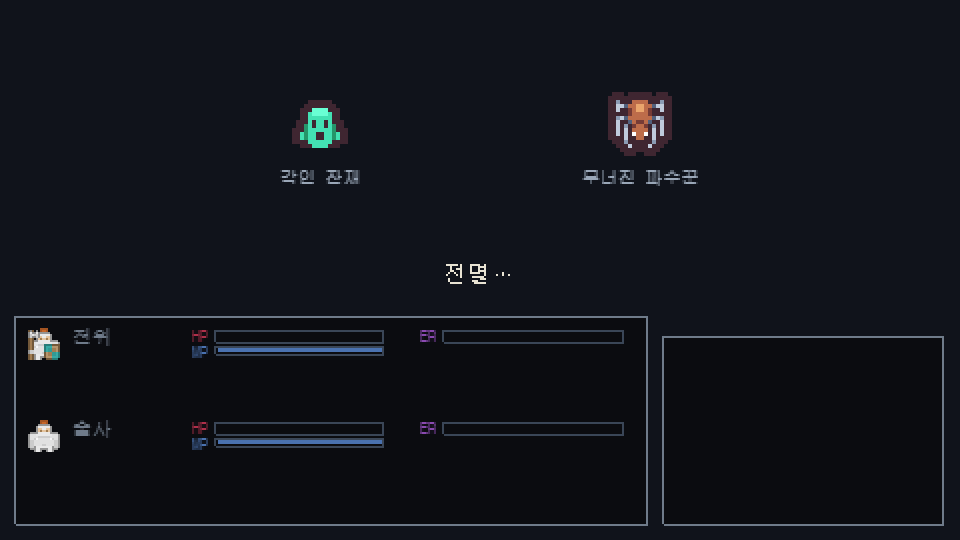
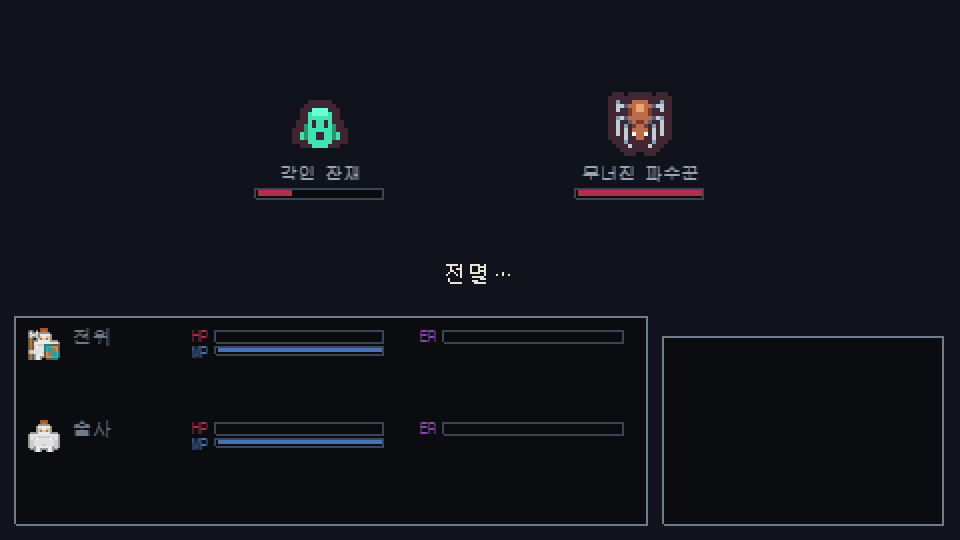
feat(battle): 적의 HP 와 상태이상을 보여준다
이름만 떠 있어서 누구를 칠지 고를 근거가 없었다. 거의 죽은 적을 마무리할지
온전한 적을 칠지가 대상 선택의 전부인데 전부 같아 보였다.

상태이상도 화면에 없었다. 걸렸는지 보이지 않으면 독을 묻히는 스킬과 그냥
약한 스킬이 구분되지 않는다 - 다섯 가지가 서로 다르게 커맨드를 제약하는데도.
파티 쪽에도 붙였다. 침묵이 걸린 줄 모르면 스킬 메뉴가 왜 막혔는지 알 수 없다.

Gauge 의 setVisible 과 setRatio 가 부르는 순서에 따라 결과가 달라지고 있었다.
상태를 들고 있다가 함께 적용하게 고쳤다.

Changed region(s): [[0.5938, 0.2963, 0.75, 0.3852], [0.25, 0.2963, 0.4062, 0.3852]]

diff --git a/src/game/scenes/BattleScene.ts b/src/game/scenes/BattleScene.ts
@@ -15,7 +15,7 @@ import { chooseCommand } from '../../core/battle/ai.js';
 import { itemBlockReason, type Item } from '../../core/battle/item.js';
 import { erosionThreshold, skillBlockReason, type Skill } from '../../core/battle/skill.js';
 import { createRng } from '../../core/rng/index.js';
-import { BATTLE_TUNING, VICTORY_RECOVERY } from '../../data/battle.js';
+import { BATTLE_TUNING, VICTORY_RECOVERY, describeAilments } from '../../data/battle.js';
 import { ruinEncounter, mobTile, type Encounter } from '../../data/encounters.js';
 import { CHARACTER_SHEET, portraitOf } from '../../data/characters.js';
 import { item as itemById } from '../../data/items.js';
@@ -81,6 +81,9 @@ export class BattleScene extends Phaser.Scene {
   private enemyLabels = new Map<ActorId, Phaser.GameObjects.Text>();
   private partyGauges = new Map<ActorId, { hp: Gauge; mp: Gauge; erosion: Gauge }>();
   private partyLabels = new Map<ActorId, Phaser.GameObjects.Text>();
+  private partyAilments = new Map<ActorId, Phaser.GameObjects.Text>();
+  private enemyGauges = new Map<ActorId, Gauge>();
+  private enemyAilments = new Map<ActorId, Phaser.GameObjects.Text>();
   private menuText!: Phaser.GameObjects.Text;
   private messageText!: Phaser.GameObjects.Text;
   private cursor!: Phaser.GameObjects.Text;
@@ -148,18 +151,42 @@ export class BattleScene extends Phaser.Scene {
     const enemies = this.state.actors.filter((a) => a.side === 'enemy');
     const gap = this.scale.width / (enemies.length + 1);
 
+    // 적이 몇이든 폭 안에서 나눠 갖는다. 막대가 이름보다 넓으면 서로 붙어 읽히지 않는다.
+    const barWidth = Math.min(64, Math.floor(gap) - 12);
+
     enemies.forEach((enemy, i) => {
-      const view = this.add
-        .image(gap * (i + 1), 62, 'tiles-dungeon', mobTile(enemy.id))
-        .setScale(2);
+      const x = gap * (i + 1);
+      const view = this.add.image(x, 62, 'tiles-dungeon', mobTile(enemy.id)).setScale(2);
       this.enemyViews.set(enemy.id, view);
       this.enemyLabels.set(
         enemy.id,
         this.add
-          .text(gap * (i + 1), 84, enemy.name, {
+          .text(x, 82, enemy.name, {
             fontFamily: 'monospace',
             fontSize: '9px',
             color: '#9aa7b8',
+          })
+          .setOrigin(0.5, 0),
+      );
+
+      /**
+       * 적의 HP 와 상태이상 (T-059).
+       *
+       * **없으면 누구를 칠지 고를 근거가 없다.** 거의 죽은 적을 마무리할지 온전한 적을
+       * 칠지가 대상 선택의 전부인데, 예전에는 이름만 떠 있어 전부 같아 보였다.
+       * 상태이상도 마찬가지다 — 독을 묻히는 스킬과 그냥 약한 스킬이 구분되지 않았다.
+       *
+       * **숫자가 아니라 막대다.** 적의 정확한 HP 는 이 게임이 답할 문제가 아니고,
+       * 필요한 것은 "얼마나 남았나" 뿐이다.
+       */
+      this.enemyGauges.set(enemy.id, new Gauge(this, x - barWidth / 2, 94, barWidth, 5, 0xb0304a));
+      this.enemyAilments.set(
+        enemy.id,
+        this.add
+          .text(x, 102, '', {
+            fontFamily: 'monospace',
+            fontSize: '8px',
+            color: '#c8a15a',
           })
           .setOrigin(0.5, 0),
       );
@@ -221,6 +248,16 @@ export class BattleScene extends Phaser.Scene {
       this.add
         .text(218, top, 'ER', { fontFamily: 'monospace', fontSize: '8px', color: '#8a4ab0' })
         .setOrigin(1, 0);
+
+      // 침묵이 걸린 줄 모르면 스킬 메뉴가 왜 막혔는지 알 수 없다.
+      this.partyAilments.set(
+        member.id,
+        this.add.text(36, top + 10, '', {
+          fontFamily: 'monospace',
+          fontSize: '8px',
+          color: '#c8a15a',
+        }),
+      );
     });
 
     markPartyPanel(party.length, PANEL_TOP + PANEL_PAD + party.length * row);
@@ -238,6 +275,8 @@ export class BattleScene extends Phaser.Scene {
 
       const label = this.partyLabels.get(id);
       label?.setColor(isAlive(actor) ? '#e8e3d3' : '#6f7b8a');
+      // 파티도 무엇에 걸렸는지 보여야 한다. 침묵이 걸린 줄 모르면 스킬 메뉴가 왜 막혔는지 알 수 없다.
+      this.partyAilments.get(id)?.setText(describeAilments(actor.ailments ?? []));
     }
 
     for (const [id, view] of this.enemyViews) {
@@ -246,6 +285,14 @@ export class BattleScene extends Phaser.Scene {
       view.setVisible(alive);
       // 이름표도 함께 감춘다. 사라진 적의 이름만 남아 있으면 아직 있는 것처럼 보인다.
       this.enemyLabels.get(id)?.setVisible(alive);
+      this.enemyAilments.get(id)?.setVisible(alive);
+      this.enemyAilments.get(id)?.setText(alive ? describeAilments(actor.ailments ?? []) : '');
+
+      const gauge = this.enemyGauges.get(id);
+      if (gauge !== undefined) {
+        gauge.setVisible(alive);
+        if (actor !== undefined) gauge.setRatio(actor.hp / actor.stats.maxHp);
+      }
     }
   }
 

diff --git a/src/game/ui/Gauge.ts b/src/game/ui/Gauge.ts
@@ -7,7 +7,10 @@ import Phaser from 'phaser';
  * 호출부에서 비율을 뒤집지 않고 그대로 넘긴다 — 색으로 구분하는 편이 오해가 적다.
  */
 export class Gauge {
+  private readonly frame: Phaser.GameObjects.Rectangle;
   private readonly fill: Phaser.GameObjects.Rectangle;
+  private hidden = false;
+  private ratio = 1;
 
   constructor(
     scene: Phaser.Scene,
@@ -17,14 +20,34 @@ export class Gauge {
     height: number,
     color: number,
   ) {
-    scene.add.rectangle(x, y, width, height, 0x0b0c10).setOrigin(0, 0).setStrokeStyle(1, 0x3a4657);
+    this.frame = scene.add
+      .rectangle(x, y, width, height, 0x0b0c10)
+      .setOrigin(0, 0)
+      .setStrokeStyle(1, 0x3a4657);
     this.fill = scene.add.rectangle(x + 1, y + 1, width - 2, height - 2, color).setOrigin(0, 0);
+  }
+
+  /** 쓰러진 적의 막대는 통째로 감춘다. 빈 막대만 남으면 아직 있는 것처럼 보인다. */
+  setVisible(visible: boolean): void {
+    this.hidden = !visible;
+    this.apply();
   }
 
   /** 0~1 비율. 범위를 벗어난 값은 잘라낸다 — 침식이 상한을 넘어도 막대가 삐져나오지 않는다. */
   setRatio(ratio: number): void {
-    const clamped = Math.min(Math.max(ratio, 0), 1);
-    this.fill.setDisplaySize(Math.max(0, (this.width - 2) * clamped), this.fill.height);
-    this.fill.setVisible(clamped > 0);
+    this.ratio = Math.min(Math.max(ratio, 0), 1);
+    this.apply();
+  }
+
+  /**
+   * 두 값을 한곳에서 반영한다.
+   *
+   * 각자 `fill.setVisible` 을 부르면 **부르는 순서가 결과를 바꾼다** — 감춘 뒤 비율을
+   * 넣으면 다시 나타나고, 반대면 안 나타난다. 상태를 들고 있다가 함께 적용하면 그 함정이 없다.
+   */
+  private apply(): void {
+    this.frame.setVisible(!this.hidden);
+    this.fill.setDisplaySize(Math.max(0, (this.width - 2) * this.ratio), this.fill.height);
+    this.fill.setVisible(!this.hidden && this.ratio > 0);
   }
 }

diff --git a/src/data/battle.ts b/src/data/battle.ts
@@ -1,6 +1,6 @@
 import type { DamageTuning } from '../core/battle/damage.js';
 import type { AilmentValue, ErosionTuning } from '../core/battle/skill.js';
-import type { AilmentTuning } from '../core/battle/status.js';
+import type { Ailment, AilmentState, AilmentTuning } from '../core/battle/status.js';
 import type { BattleTuning, FleeTuning, TurnOrderTuning } from '../core/battle/index.js';
 
 /**
@@ -118,6 +118,28 @@ export const AILMENT_POWER: AilmentValue = {
 export const VICTORY_RECOVERY = {
   mpPerEnemy: 1,
 } as const;
+
+/**
+ * 상태이상의 표시 이름 (T-059).
+ *
+ * **화면에 이름이 없으면 걸었는지 알 수 없다.** 상태이상은 다섯 가지가 서로 다른 방식으로
+ * 커맨드 선택을 제약하는데(`core/battle/status.ts`), 그 제약이 걸렸는지 보이지 않으면
+ * 독을 묻히는 스킬과 그냥 약한 스킬이 구분되지 않는다.
+ *
+ * 짧게 잡았다 — 적 하나당 쓸 수 있는 폭이 60px 남짓이라 두 글자를 넘으면 겹친다.
+ */
+export const AILMENT_NAMES: Readonly<Record<Ailment, string>> = {
+  poison: '독',
+  paralysis: '마비',
+  sleep: '수면',
+  silence: '침묵',
+  confusion: '혼란',
+};
+
+/** `독2 침묵1` — 남은 턴까지 보여준다. 한 턴 남은 것과 다섯 턴 남은 것은 다른 상황이다. */
+export function describeAilments(ailments: readonly AilmentState[]): string {
+  return ailments.map((a) => `${AILMENT_NAMES[a.kind]}${a.turns}`).join(' ');
+}
 
 /**
  * 레벨업이 되돌려주는 것 (T-049c).
